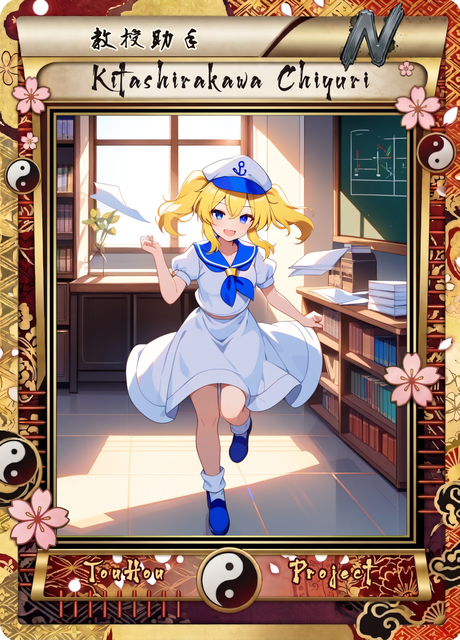
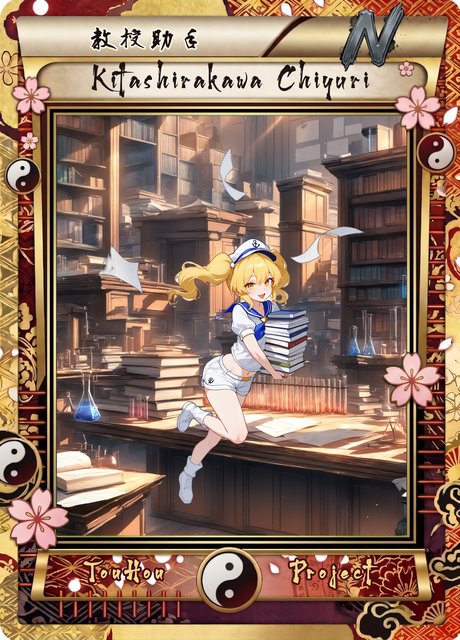
feat: 0.31.009 玄爺、里香 N / R，千百合 N / R / SR，夢美 R / SR / SSR 重生卡面

diff --git a/tools/card_art/layered/hd_card.py b/tools/card_art/layered/hd_card.py
@@ -804,16 +804,19 @@ LAYERS = {
         # SR「萬年修行的靈龜」(沿用舊 SCENES)：仙山雲海上的神龜，龜殼上古老的符文發著金光、靈氣環繞
         # 去背會把身邊的金色氣焰一起去掉 ➔ 光芒、光柱、金色光點都放背景，人物層只留龜殼上的發光符文 (是身體的一部分，去背會保留)
         # N～SSR 沒有彈幕 / 魔法陣，舊 SCENES 也沒有，維持
-        "bg": ("no humans, scenery, sea of clouds, chinese mountains, towering karst peaks, waterfall, pine trees on cliffs, "
-               "golden light rays, divine light, glowing golden particles, sparkles, mist, mystical, sacred, majestic, "
-               "daylight, highly detailed, intricate details"),
+        # 2026-11-12 使用者：第一輪背景 (懸崖、瀑布的空中視角) 跟站著的烏龜不搭 ➔ 平視、前景有一塊可以站的山頂岩地
+        "bg": ("no humans, scenery, eye level, flat rocky mountain summit in the foreground, mossy stone ground, ancient twisted pine tree, "
+               "sea of clouds below, distant chinese karst peaks, golden light rays, divine light, glowing golden particles, mist, "
+               "mystical, sacred, majestic, daylight, highly detailed, intricate details"),
         "bg_negative": "1girl, person, human, character, face, animal, turtle, text, watermark, lowres, worst quality, low quality, blurry, frame, border, night, dark, magic circle",
         "base": ("no humans, animal focus, genjii (touhou), touhou, minogame, tortoise, ancient divine tortoise, old tortoise, land tortoise, green shell, olive brown skin, "
                  "four legs, clawed feet, long white beard, bushy white eyebrows, half-closed eyes, "
                  "long fluffy white tail, flowing white hair-like tail, wise, flying tortoise"),
         # 2026-11-12 第一輪 C1～C4 都畫出整圈金光 / 雲 / 好幾隻烏龜 (去背會切掉) ➔ 拿掉發光、飄動、仰角，改成單隻烏龜安穩站著的側面全身
-        "char": ("solo, single tortoise, standing calmly, side view, three-quarter view, ancient patterns carved on shell, "
-                 "dignified, wise expression, gentle smile, simple background, white background, full body"),
+        # 2026-11-13 使用者：背景 B2 是浮空岩塊 ➔ 人物改漂浮版 (飛在空中、四腳放鬆垂著、鬍鬚尾巴往後飄)，仍然不要光暈 / 雲
+        "char": ("solo, single tortoise, floating in the air, flying, levitating, legs relaxed and dangling, from side, three-quarter view, "
+                 "beard and white tail trailing behind in the wind, ancient patterns carved on shell, "
+                 "dignified, wise expression, half-closed eyes, simple background, white background, full body"),
         "char_negative": ("1girl, human, humanization, anthropomorphic, girl, rider, multiple tortoises, "
                           "aura, glow, glowing, golden light, energy, smoke, clouds, swirl, runes, symbols, light particles, "
                           "wings, feathers, sea turtle, flippers, dragon, waterfall, magic circle, danmaku"),
@@ -823,8 +826,10 @@ LAYERS = {
         # N「戰車技師」(沿用舊 SCENES)：在草地上修理自製的小戰車 (野花、藍天白雲、白天柔光)；拿扳手跪在戰車旁、臉頰沾油污、開朗笑
         # 外觀照萌娘百科 (封魔錄 1 面)：棕色長髮綁兩條麻花辮、棕瞳、白襯衫 + 紫色領結；舊 base 的護目鏡 / 吊帶工作褲不是原作，拿掉
         # 戰車要跟人物一起留在去背圖裡，所以戰車寫在 char (人物層)，草地、天空寫在 bg
-        "bg": ("no humans, scenery, grassy field, meadow, wildflowers, blue sky, white clouds, distant hills, "
-               "daylight, soft lighting, peaceful, highly detailed"),
+        # 2026-11-12 使用者：草地背景跟人物 (吊著的齒輪機械、生鏽工作台) 不搭 ➔ 改成修車工坊室內，吊車、齒輪掛在天花板下
+        "bg": ("no humans, scenery, indoors, workshop, garage, machine shop, steampunk, workbenches, tools hanging on walls, "
+               "hanging chains, overhead crane, large gears, pipes, scattered spare parts, warm sunlight through windows, dust particles, "
+               "eye level, cozy, highly detailed"),
         "bg_negative": "1girl, person, human, character, face, tank, vehicle, military, text, watermark, lowres, worst quality, low quality, blurry, frame, border, night, dark",
         "base": ("1girl, rika (touhou), touhou, touhou (pc-98), brown hair, long hair, twin braids, brown eyes, "
                  "white shirt, collared shirt, purple bowtie, bowtie"),
@@ -846,7 +851,8 @@ LAYERS = {
                  "pointing forward, mischievous grin, smug, looking at viewer, hair blowing in wind, petals, dynamic angle, full body"),
         "char_negative": ("military uniform, soldier, gun, rifle, mecha, robot girl, goggles, overalls, short hair, helmet, "
                           "danmaku, bullets, explosion, fire, magic circle"),
-        "char_scale": 0.65,   # 戰車比人大，人物 + 戰車整組要放得進畫窗
+        "char_scale": 0.8,    # 戰車比人大；使用者 (2026-11-12)：0.65 置中時戰車像飛在天上 ➔ 放大、往下貼地
+        "offset": (0.0, 0.17),
     },
     ("rika", "SR"): {
         # SR「花樣戰車大師」(沿用舊 SCENES)：邪眼「Evil Eye Σ」— 飛行戰車；站在邪眼上張開雙手得意大笑，天空雲海、光線
@@ -879,7 +885,7 @@ LAYERS = {
         "char": ("carrying a stack of books, holding papers, papers flying, running, cheerful smile, open mouth, "
                  "looking at viewer, twintails swaying, dynamic pose, full body"),
         "char_negative": "blue eyes, short hair, long straight hair, skirt, pleated skirt, dress, school uniform, marisa, kirisame marisa, witch hat, danmaku, magic circle",
-        "char_scale": 0.6,   # 日常場景人物小一點、融入背景 (紅美鈴 R 0.49 / SR 0.56 的經驗)
+        "char_scale": 0.85,   # 使用者 (2026-11-12)：0.6 人太小
     },
     ("chiyuri", "R"): {
         # R「水手服科學家」(沿用舊 SCENES)：在船的甲板上做實驗，拿著發光燒瓶、得意地笑 + 眨眼
@@ -910,6 +916,7 @@ LAYERS = {
                  "hat ribbons flowing, twintails flowing, wind, dynamic angle, full body"),
         "char_negative": "blue eyes, short hair, long straight hair, skirt, pleated skirt, dress, school uniform, marisa, kirisame marisa, witch hat, ship's wheel, steering wheel, chair, sitting, danmaku, magic circle",
         "char_scale": 0.6,
+        "offset": (0.0, 0.14),   # 使用者 (2026-11-12)：人往下一點 (腳踩到船艙地板)
     },
     ("yumemi", "R"): {
         # R「比較物理學教授」(沿用舊 SCENES)：大學階梯教室，黑板寫滿物理公式、桌椅、書本、大窗戶白天光線；

diff --git a/Utils/version.py b/Utils/version.py
@@ -6,4 +6,4 @@
 
 每次 commit 都要更新這裡和 CHANGELOG.md。
 """
-VERSION = "0.31.008"
+VERSION = "0.31.009"

diff --git a/CHANGELOG.md b/CHANGELOG.md
@@ -13,6 +13,11 @@
 
 ---
 
+## 0.31.009 — 2026-11-13：玄爺、里香、千百合、夢美重生卡面
+- **玄爺** N / R、**里香** N / R、**千百合** N / R / SR、**夢美** R / SR / SSR 改走高清分層流程。里香 N、夢美三張由使用者在 PhotoCraft 手修人物後重新合成 (`pc_layers.py` ➔ 使用者修 ➔ `pc_apply.py`)。
+- **玄爺 SR、里香 SR 使用者選回舊版**：重生了兩輪 (玄爺連漂浮版都試了) 都不滿意，保留舊卡面；試作的分層檔沒有推。
+- 版面微調寫在 `hd_card.py` (人物縮放 / 位移：里香 R 坦克縮到 0.8 並往下、千百合 N 放大到 0.85、千百合 SR 往下)。
+
 ## 0.31.008 — 2026-11-13：UR / LR 收藏稱號 5 個
 - **🌟 UR / LR 收藏稱號** (使用者選 B：看卡冊**現在**有幾種角色，賣掉、融合掉、送人就會失去，戴著的自動卸下)：金色的奇蹟 (SR, 1 種 UR) → 傳說收藏家 (SSR, 5 種) → 黃金卡冊 (UR, 10 種) → 觸及傳說之人 (UR, 1 種 LR) → 幻想的頂點 (LR, 3 種 LR)。同角色多張只算一種 (不然靠合成就能刷)；上架中的卡不在卡冊，不算。
 - **前一個稱號要先有** (使用者指定)：稱號新增 `requires` 欄位，LR 收藏要先有「黃金卡冊」；條件文字會加上「且已獲得「…」」。同一種統計的稱號門檻本來就有先後，不用寫。

diff --git a/TODO.md b/TODO.md
@@ -25,10 +25,10 @@
 | Main | 靈夢 reimu | SR / SSR / UR | ✅ 全部完成 (SR、SSR 2026-11-12 重生) |
 | Main | 魔理沙 marisa | SR / SSR / UR | ✅ 全部完成 (SR、SSR 2026-11-12 重生) |
 | TH01 | 魅魔 mima | SR / SSR / UR | ✅ 全部完成 (2026-11-12 重生，UR 用 twilight 彈幕) |
-| TH02 | 玄爺 genji | N / R / SR | 全部重生 (陸龜、白鬍子) |
-| TH02 | 里香 rika | N / R / SR | 全部重生 |
-| TH03 | 千百合 chiyuri | N / R / SR | 全部重生 |
-| TH03 | 夢美 yumemi | R / SR / SSR | 全部重生 |
+| TH02 | 玄爺 genji | N / R / SR | ✅ 0.31.009 N / R 重生；SR 使用者選回舊版 |
+| TH02 | 里香 rika | N / R / SR | ✅ 0.31.009 N / R 重生 (N 使用者 PhotoCraft 手修)；SR 使用者選回舊版 |
+| TH03 | 千百合 chiyuri | N / R / SR | ✅ 0.31.009 |
+| TH03 | 夢美 yumemi | R / SR / SSR | ✅ 0.31.009 (三張都使用者 PhotoCraft 手修) |
 | TH04 | 艾莉 elly | N / R / SR | 全部重生 |
 | TH04 | 幻月 gengetsu | R / SR / SSR | 全部重生 (有翅膀 ➔ 翅膀分層) |
 | TH04 | 夢月 mugetsu | N / R / SR | 全部重生 |
